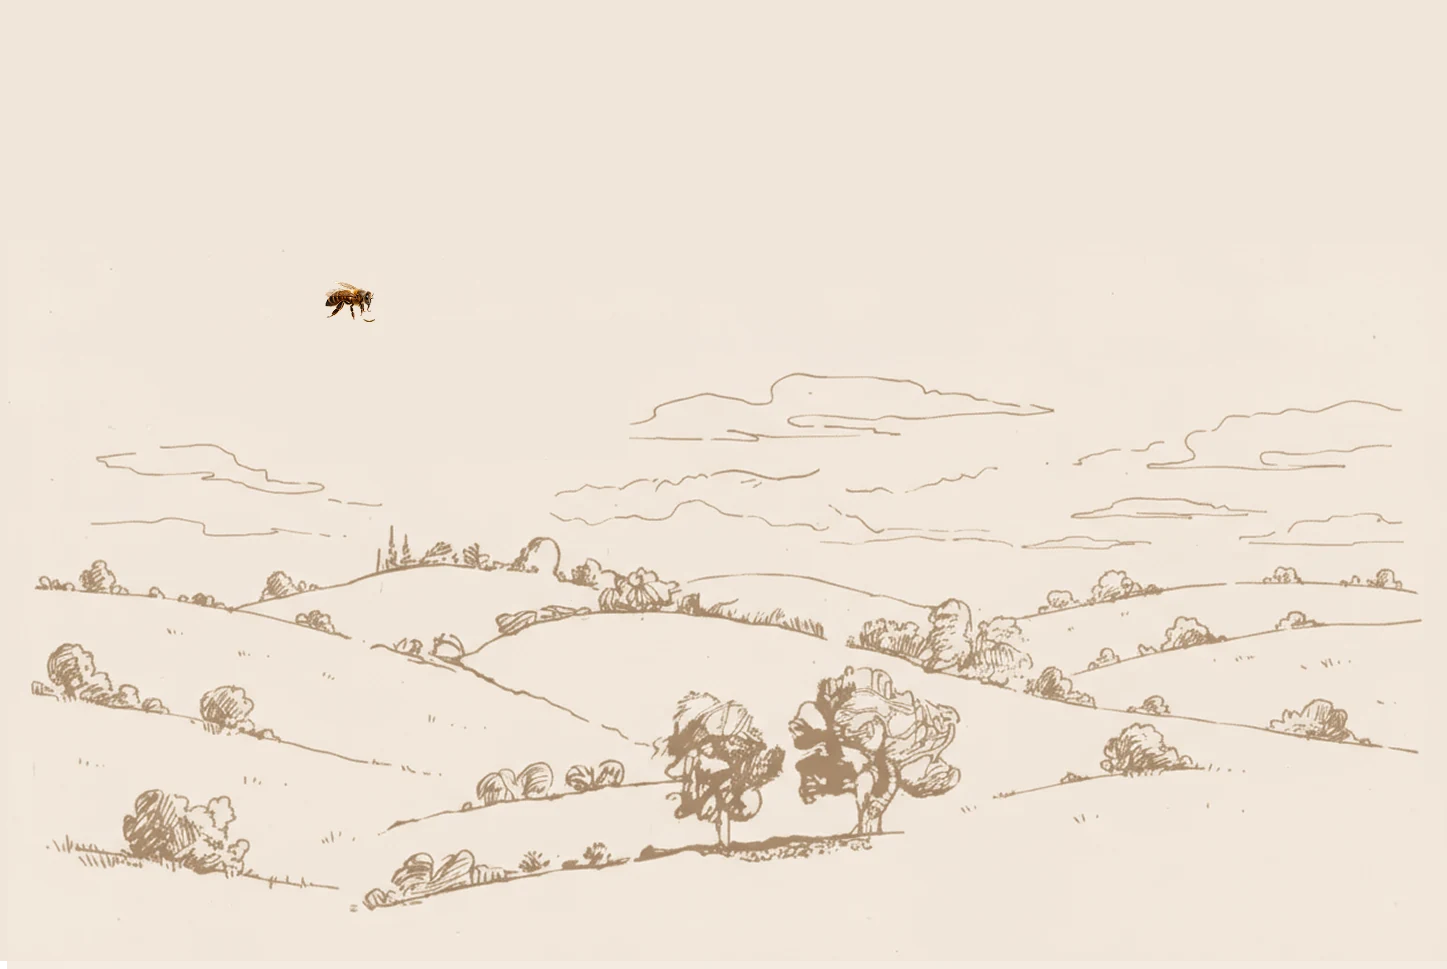
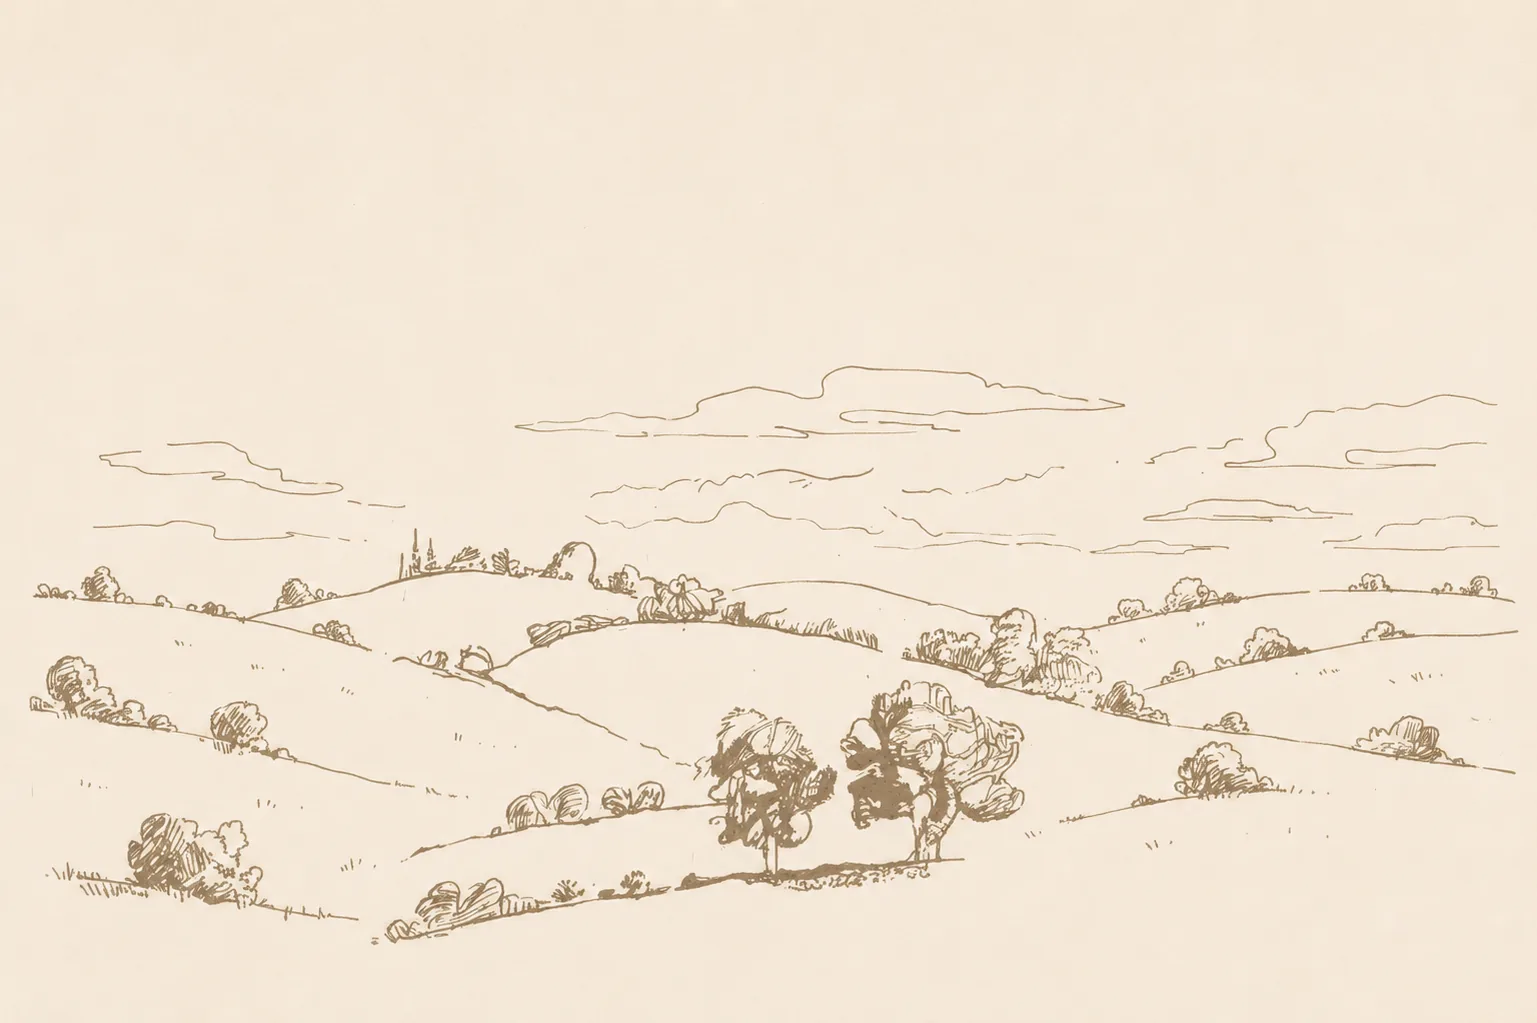
Rebuild the hero on the clean drawing, and write the script on
The new meadow has nothing baked into it — no lettering, no bee — so every
mark over it is now its own element. That settles the duplicate bee too: the
flight starts directly under the arrowhead, and the arrow finally points at
the bee it names.

The wordmark is FOOT.svg as supplied, outlines rather than live text. It keeps
the h1 for structure and carries the name in alt, so the heading still reads
as "Pčelarstvo Jevtić" to a screen reader and to a crawler.

rati.svg is split into the script and the arrow along its existing element
boundaries, same viewBox in both, so they still register exactly but can be
revealed one after the other. The letters are filled contours, not strokes —
there is no centreline for a pen to follow — so a slanted edge travels across
them instead, top edge leading in the direction the handwriting rises. The
arrow then draws back toward the bee. Both wait for the loading curtain, and
prefers-reduced-motion leaves them simply written.

The mobile reference height was a guess; it is now the measured one, with the
waypoints rescaled to keep the same route.

Claude-Session: https://claude.ai/code/session_015fNsvUycng1vpUUUNomBvS

diff --git a/src/components/home/HeroLand.tsx b/src/components/home/HeroLand.tsx
@@ -3,28 +3,28 @@ import Image from 'next/image';
 import type { Locale } from '@/i18n/config';
 
 /**
- * The opening screen: the drawn meadow, with the wordmark and the script line
- * set live on top of it rather than baked into the picture.
+ * Pocetni ekran: crtez livade, sa wordmarkom i pisanim natpisom polozenim
+ * preko njega.
  *
- * The supplied artwork had both burned into the pixels. They were painted out
- * (the drawing behind them was empty, so nothing was lost) and are laid back
- * over the plate as real text and as rati.svg — crisp at any size, selectable,
- * and translatable.
+ * Crtez je cist — na njemu nema ni slova ni pcele, sve sto se vidi preko
+ * njega je zaseban element. Zato se lockup moze pomerati i prevoditi, ostaje
+ * ostar na svakoj velicini, i pcela koja leti kroz stranu je jedina pcela u
+ * heroju.
  *
- * Every overlay position is a percentage of the plate, and the plate is a
- * container, so the whole lockup scales as one piece at any width.
+ * Svaka pozicija je procenat plate, a plata je container, pa se ceo sklop
+ * skalira kao jedan komad na bilo kojoj sirini.
  *
- * Measured off the original composite (1447 × 969):
- *   script      ink x 413–867  y 169–246
- *   PČELARSTVO  ink x 337–549  y 322–348
- *   Jevtić      ink x 299–629  y 361–448
- *   the bee stays part of the plate, at x 325–374  y 282–321
+ * Natpis i strelica su razdvojeni u dva fajla iz istog crteza (rati.svg), sa
+ * istim viewBox-om — zato se preklapaju tacno, a mogu da se ispisuju jedno za
+ * drugim: prvo se napise recenica, pa onda strelica krene ka pceli.
  */
 export default function HeroLand({ locale }: { locale: Locale }) {
   const alt =
     locale === 'sr'
       ? 'Crtež livada i brda oko Mračaja'
       : 'A drawing of the meadows and hills around Mračaj';
+
+  const script = locale === 'sr' ? 'Listaj i prati pčelu' : 'Scroll and follow the bee';
 
   return (
     <section className="hero-land">
@@ -33,18 +33,20 @@ export default function HeroLand({ locale }: { locale: Locale }) {
           className="hero-land__drawing"
           src="/hero/livada.webp"
           alt={alt}
-          width={1447}
-          height={969}
+          width={1537}
+          height={1023}
           priority
           sizes="100vw"
         />
 
         {/* eslint-disable-next-line @next/next/no-img-element */}
-        <img className="hero-land__script" src="/hero/rati.svg" alt="Listaj i prati pčelu" />
+        <img className="hero-land__script" src="/hero/rati-script.svg" alt={script} />
+        {/* eslint-disable-next-line @next/next/no-img-element */}
+        <img className="hero-land__arrow" src="/hero/rati-arrow.svg" alt="" aria-hidden="true" />
 
         <h1 className="hero-land__wordmark">
-          <span className="hero-land__caps">Pčelarstvo</span>
-          <span className="hero-land__name">Jevtić</span>
+          {/* eslint-disable-next-line @next/next/no-img-element */}
+          <img src="/hero/foot.svg" alt="Pčelarstvo Jevtić" />
         </h1>
       </div>
     </section>

diff --git a/src/app/globals.css b/src/app/globals.css
@@ -733,40 +733,80 @@ html.is-preloading body {
   height: auto;
 }
 
-.hero-land__script {
+/*
+ * Natpis i strelica dele isti okvir — isti viewBox, ista pozicija — pa se
+ * poklapaju kao da su i dalje jedan fajl.
+ */
+.hero-land__script,
+.hero-land__arrow {
   position: absolute;
-  left: 27.5%;   /* 398 / 1447 — the svg's own ink starts 15px in */
-  top: 4.44%;    /* 43 / 969 — and 126px down */
-  width: 33.1%;  /* 479 / 1447 */
+  left: 27.5%;
+  top: 4.44%;
+  width: 33.1%;
   height: auto;
+}
+
+/*
+ * Ispisivanje. Natpis se ne moze "crtati" pomeranjem dash-offseta jer slova
+ * nisu potezi nego popunjene konture — nema linije po kojoj bi olovka isla.
+ * Zato ih otkriva kosi rez koji putuje slijeva udesno: gornja ivica malo vodi,
+ * u smeru u kojem se rukopis i penje, pa poteza izgleda kao da izlazi ispod
+ * pera a ne ispod lenjira.
+ */
+@keyframes hero-write {
+  from {
+    clip-path: polygon(-20% 0%, -20% 0%, -29% 100%, -29% 100%);
+  }
+  to {
+    clip-path: polygon(-20% 0%, 120% 0%, 111% 100%, -29% 100%);
+  }
+}
+
+/* Strelica se povlaci unazad, od natpisa ka pceli — onako kako se i crta. */
+@keyframes hero-arrow {
+  from {
+    clip-path: inset(0 0 0 100%);
+  }
+  to {
+    clip-path: inset(0 0 0 -2%);
+  }
+}
+
+/*
+ * Krecu tek kad zavesa ucitavanja padne: klasa se skida sa <html>, pa
+ * elementi tek tada dobiju animaciju. Bez JS-a klase nikad nema i natpis
+ * stoji ispisan od pocetka.
+ */
+html:not(.is-preloading) .hero-land__script {
+  animation: hero-write 1.8s cubic-bezier(0.62, 0.03, 0.4, 1) 0.25s backwards;
+}
+
+html:not(.is-preloading) .hero-land__arrow {
+  animation: hero-arrow 0.75s cubic-bezier(0.33, 0, 0.15, 1) 1.85s backwards;
+}
+
+/* Smireno stanje: natpis i strelica prosto stoje ispisani. */
+@media (prefers-reduced-motion: reduce) {
+  html:not(.is-preloading) .hero-land__script,
+  html:not(.is-preloading) .hero-land__arrow {
+    animation: none;
+    clip-path: none;
+  }
 }
 
 .hero-land__wordmark {
   position: absolute;
-  left: 20.66%; /* 299 / 1447 — the left edge of "Jevtić" */
-  top: 33.23%;  /* 322 / 969 — the cap line of "PČELARSTVO" */
+  left: 20.66%;
+  top: 31.5%;
+  width: 27.5%;
   margin: 0;
-  display: flex;
-  flex-direction: column;
-  line-height: 1;
-  color: #8A5A17;
+  line-height: 0;
 }
 
-.hero-land__caps {
-  margin-left: 2.63cqw; /* 337 - 299 = 38px, the caps sit inset from the name */
-  font-family: var(--font-gazpacho), Georgia, serif;
-  font-weight: 400;
-  font-size: 2.7cqw;
-  letter-spacing: 0.075em;
-  text-transform: uppercase;
-}
-
-.hero-land__name {
-  margin-top: 0.62cqw;
-  font-family: var(--font-gazpacho), Georgia, serif;
-  font-weight: 500;
-  font-size: 7.3cqw;
-  letter-spacing: -0.005em;
+.hero-land__wordmark img {
+  display: block;
+  width: 100%;
+  height: auto;
 }
 
 /*

diff --git a/src/components/bee/flightPath.ts b/src/components/bee/flightPath.ts
@@ -21,16 +21,15 @@ export const REF = { w: 1434, h: 14090 };
 export type Leg = { through: Pt[] } | { loop: { c: Pt; r: number; from?: number } };
 
 /**
- * Desktop ruta. Krece pored napisa "Listaj i prati pcelu" — tacnije ispod
- * vrha isprekidane strelice, malo desno od pcele koja je vec nacrtana na
- * livadi, da se dve pcele ne preklope. Zatim se spusta kroz teglu, preseca
- * "O nama" dijagonalno, napravi pun krug oko izdvojenih proizvoda i izlazi
- * kod podnozja.
+ * Desktop ruta. Krece tacno pod vrhom isprekidane strelice, tako da strelica
+ * iz napisa "Listaj i prati pcelu" pokazuje bas na nju. Zatim se spusta kroz
+ * teglu, preseca "O nama" dijagonalno, napravi pun krug oko izdvojenih
+ * proizvoda i izlazi kod podnozja.
  */
 export const DESKTOP: Leg[] = [
   {
     through: [
-      [430, 330],    // polazak: uz strelicu u heroju
+      [395, 243],    // polazak: tacno pod vrhom isprekidane strelice
       [900, 660],
       [1180, 1350],
       [520, 2050],   // tegla
@@ -66,27 +65,28 @@ export const DESKTOP: Leg[] = [
 
 /**
  * Telefon: kraca i mirnija ruta. Nema petlje — na 390 px sirine krug bi bio
- * grcevit — nego samo jedna blaga kuka na mestu gde desktop pravi petlju.
+ * grcevit — nego samo mirno njihanje levo-desno niz stranu.
  */
-export const MOBILE_REF = { w: 390, h: 16800 };
+export const MOBILE_REF = { w: 390, h: 13919 };
 
 export const MOBILE: Leg[] = [
   {
     through: [
-      [250, 380],
-      [310, 900],
-      [90, 1900],
-      [300, 3000],
-      [110, 4300],
-      [290, 5600],
-      [100, 7000],
-      [300, 8200],
-      [120, 9600],
-      [290, 11000],
-      [110, 12400],
-      [280, 13700],
-      [150, 15000],
-      [250, 15900],
+      [88, 128], // polazak: pod vrhom strelice, kao i na desktopu
+      [230, 520],
+      [310, 750],
+      [90, 1575],
+      [300, 2485],
+      [110, 3560],
+      [290, 4640],
+      [100, 5800],
+      [300, 6795],
+      [120, 7955],
+      [290, 9115],
+      [110, 10275],
+      [280, 11350],
+      [150, 12430],
+      [250, 13175],
     ],
   },
 ];

diff --git a/src/components/bee/BeeFlight.tsx b/src/components/bee/BeeFlight.tsx
@@ -66,8 +66,8 @@ export default function BeeFlight() {
         layer.style.width = `${w}px`;
         layer.style.height = `${h}px`;
         gsap.set(bee, {
-          x: (430 / REF.w) * w,
-          y: (330 / REF.h) * h,
+          x: (395 / REF.w) * w,
+          y: (243 / REF.h) * h,
           xPercent: -50,
           yPercent: -50,
         });
